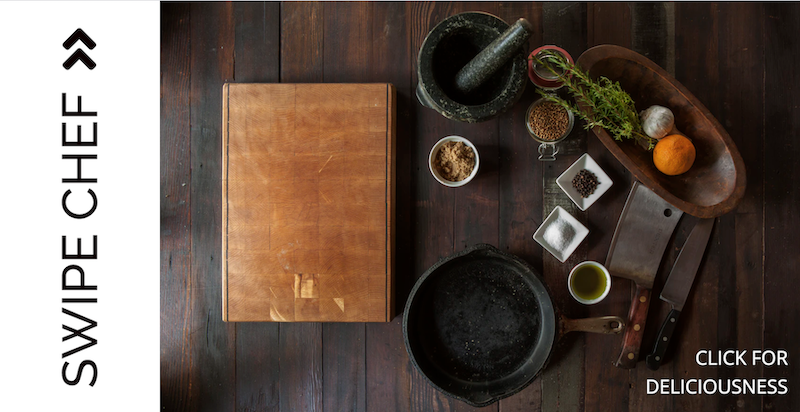
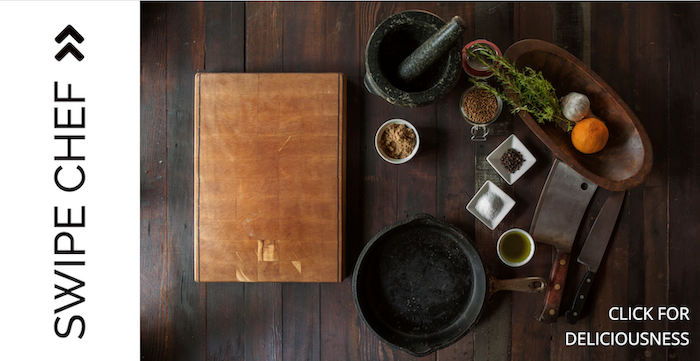
Image size smaller

diff --git a/index.html b/index.html
@@ -26,8 +26,8 @@
     </div>
     <div class="navbar" id="myNavbar">
       <a class='shuffle' href="index">FULL_STACK WEB DEVELOPER</a>
-      <a href="projects" class='code-navbar'>CODE</a>
-      <a href="about">ABOUT</a>
+      <a href="projects.html" class='code-navbar'>CODE</a>
+      <a href="about.html">ABOUT</a>
       <a href="javascript:void(0);" class="icon" onclick="myFunction()">&#9776;</a>
     </div>
 
